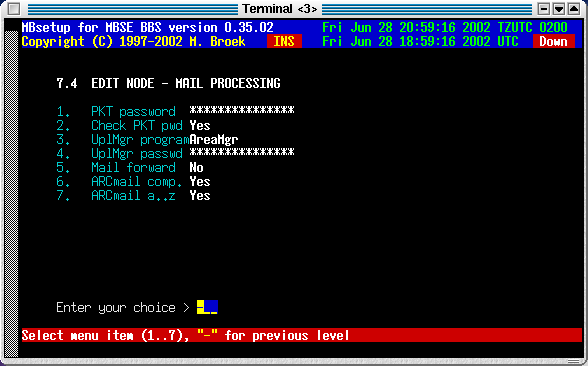
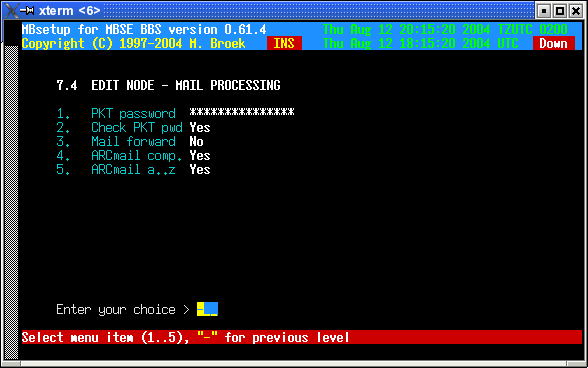
Updated documentation

diff --git a/html/setup/nodes.html b/html/setup/nodes.html
@@ -14,7 +14,7 @@
 </HEAD>
 <BODY>
 <BLOCKQUOTE>
-<div align=right><h5>Last update 08-Mar-2004</h5></div>
+<div align=right><h5>Last update 12-Aug-2004</h5></div>
 <div align=center><H1>MBSE BBS Setup - Fidonet nodes.</H1></div>
 <P>
 
@@ -147,13 +147,18 @@ Irex upto 2.29. Others may exist, even some older mbse versions.
 <H3>4. Edit node - mail processing</H3>
 <P>
 <p><table>
-<tr><th nowrap align=left valign=top>PKT password</th><td>The password to insert in .pkt files.
-<tr><th nowrap align=left valign=top>Check PKT pwd</th><td>Check password in received .pkt files. If not, errors or missing passwords are only logged.  If set, errors or missing password are refused and the .pkt files are renamed to .bad
-<tr><th nowrap align=left valign=top>UplMgr program</th><td>The name of the Areamgr program of this node.  This could be AreaFix, AreaMgr etc.
-<tr><th nowrap align=left valign=top>UplMgr passwd</th><td>The password for the Areamgr of this node.
-<tr><th nowrap align=left valign=top>Mail forward</th><td>Not in use yet.
-<tr><th nowrap align=left valign=top>ARCmail comp.</th><td>Use ARCmail 0.60 file naming convention for out of zone mail.
-<tr><th nowrap align=left valign=top>ARCmail a..z</th><td>Allow a..z last character for ARCmail filenames.
+<tr><th nowrap align=left valign=top>PKT password</th><td>The password to insert
+in .pkt files.</td></tr>
+<tr><th nowrap align=left valign=top>Check PKT pwd</th><td>Check password in
+received .pkt files. If not, errors or missing passwords are only logged.  If
+set, errors or missing password are refused and the .pkt files are renamed to
+.bad</td></tr>
+<tr><th nowrap align=left valign=top>Mail forward</th><td>Not in use
+yet.</td></tr>
+<tr><th nowrap align=left valign=top>ARCmail comp.</th><td>Use ARCmail 0.60 file
+naming convention for out of zone mail.</td></tr>
+<tr><th nowrap align=left valign=top>ARCmail a..z</th><td>Allow a..z last
+character for ARCmail filenames.</td></tr>
 </table>
 <P>
 <IMG SRC="../images/nodes4.png" alt='Nodes mail setup'>
@@ -173,14 +178,6 @@ carefull not to allow a node to connect areas from networks he has no aka in.
 <p><table>
 <tr><th nowrap align=left valign=top>Files password</th><td>The password for
 .tic files.</td></tr>
-<tr><th nowrap align=left valign=top>Mgr password</th><td>The password for the
-Areamgr and Filemgr.</td></tr>
-<tr><th nowrap align=left valign=top>UplMgr program</th><td>The name of the
-Filemgr progrom of this node. This could be FileMgr, Allfix, Raid etc.</td></tr>
-<tr><th nowrap align=left valign=top>UplMgr passwd</th><td>The password of the
-Filemgr if this node.</td></tr>
-<tr><th nowrap align=left valign=top>UplMgr Add +</th><td>Add a "+" in the
-command to connect areas.</td></tr>
 <tr><th nowrap align=left valign=top>Incl. message</th><td>Send a netmail
 message for each file to send.</td></tr>
 <tr><th nowrap align=left valign=top>Send TIC file</th><td>Send .tic file to
@@ -365,7 +362,31 @@ is set for each node.
 <IMG SRC="../images/nodes9.png" alt='Nodes security setup'>
 <P>
 
-<H3>10. Statistics</H3>
+<H3>10. Area and File managers</H3>
+<P>
+This screen sets names and passwords of the uplink managers, also our own
+password is set here.
+<p><table>
+<tr><th nowrap align=left valign=top>Uplink AreaMgr program</th><td>The name of the
+Areamgr program of this node.  This could be AreaFix, AreaMgr etc.</td></tr>
+<tr><th nowrap align=left valign=top>Uplink AreaMgr passowrd</th><td>The password for the
+Areamgr of this node.</td></tr>
+<tr><th nowrap align=left valign=top>Uplink AreaMgr is BBBS</th><td>If the uplink uses BBBS software set this
+to Yes.</td></tr>
+<tr><th nowrap align=left valign=top>Uplink FilMgr program</th><td>The name of the
+Filemgr progrom of this node. This could be FileMgr, Allfix, Raid etc.</td></tr>
+<tr><th nowrap align=left valign=top>Uplink FileMgr password</th><td>The password of the
+Filemgr if this node.</td></tr>
+<tr><th nowrap align=left valign=top>Uplink FileMgr is BBBS</th><td>If the plink
+uses BBBS set this to Yes.</td></tr>
+<tr><th nowrap align=left valign=top>Our Area/Filemgr passwd</th><td>Our own
+Area/Filemgr password for this node to send to our node.</td></tr>
+</table>
+<P>
+<IMG SRC="../images/nodes10.png" alt="Nodes managers setup">
+<P>
+
+<H3>11. Statistics</H3>
 <P>
 In this statistics screen you can see the mail and files flow with this
 node. Values are stored for the current week, the previous week, the
@@ -373,7 +394,7 @@ current month and previous month and the overall total since you defined
 this node. There are actual 12 months of statistics stored in the nodes
 record, only 2 are visible.
 <P>
-<IMG SRC="../images/nodes10.png" alt='Nodes statistics'>
+<IMG SRC="../images/nodes11.png" alt='Nodes statistics'>
 <P>
 
 <A HREF="./"><IMG SRC="../images/larrow.png" ALT="Back" Border="0">Back to index</A>&nbsp;

diff --git a/mbsetup/m_node.c b/mbsetup/m_node.c
@@ -405,6 +405,7 @@ void E_UplMgr(void)
     mvprintw(10, 6, "4.   Uplink FileMgr program");
     mvprintw(11, 6, "5.   Uplink FileMgr password");
     mvprintw(12, 6, "6.   Uplink FileMgr is BBBS");
+    mvprintw(13, 6, "7.   Our Area/Filemgr passwd");
 
     for (;;) {
 	set_color(WHITE, BLACK);
@@ -414,8 +415,9 @@ void E_UplMgr(void)
         show_str( 10,35, 8, nodes.UplFmgrPgm);
 	show_str( 11,35,15, (char *)"***************");
 	show_bool(12,35,    nodes.UplFmgrBbbs);
+	show_str( 13,35,15, (char *)"***************");
 
-	switch(select_menu(6)) {
+	switch(select_menu(7)) {
 	    case 0: return;
 	    case 1: E_STR(  7,35, 8, nodes.UplAmgrPgm,   "Name of the uplink ^areamanager program^")
 	    case 2: E_STR(  8,35,15, nodes.UplAmgrPass,  "Uplink ^areamanager password^ for this node")
@@ -423,6 +425,7 @@ void E_UplMgr(void)
             case 4: E_STR( 10,35,8,  nodes.UplFmgrPgm,   "Name of the uplink ^filemanager^ program")
 	    case 5: E_STR( 11,35,15, nodes.UplFmgrPass,  "Uplink ^filemanager password^ for this node")
 	    case 6: E_BOOL(12,35,    nodes.UplFmgrBbbs,  "Uplink ^filemanager^ is ^BBBS^ software")
+	    case 7: E_STR( 13,35,15, nodes.Apasswd,      "The area and filemanager ^password^ for this node")
 	}
     }
 }
@@ -471,35 +474,32 @@ void E_Files(void)
     mvprintw( 5, 6, "7.6  EDIT NODE - FILES PROCESSING");
     set_color(CYAN, BLACK);
     mvprintw( 7, 6, "1.   Files password");
-    mvprintw( 8, 6, "2.   Mgr password");
-    mvprintw( 9, 6, "3.   Incl. message");
-    mvprintw(10, 6, "4.   Send TIC file");
-    mvprintw(11, 6, "5.   Advanced TIC");
-    mvprintw(12, 6, "6.   Advanced SB");
-    mvprintw(13, 6, "7.   To line in TIC");
-    mvprintw(14, 6, "8.   File forward");
+    mvprintw( 8, 6, "2.   Incl. message");
+    mvprintw( 9, 6, "3.   Send TIC file");
+    mvprintw(10, 6, "4.   Advanced TIC");
+    mvprintw(11, 6, "5.   Advanced SB");
+    mvprintw(12, 6, "6.   To line in TIC");
+    mvprintw(13, 6, "7.   File forward");
 
     for (;;) {
 	set_color(WHITE, BLACK);
 	show_str(  7,26,15, (char *)"***************");
-	show_str(  8,26,15, (char *)"***************");
-	show_bool( 9,26,    nodes.Message);
-	show_bool(10,26,    nodes.Tic);
-	show_bool(11,26,    nodes.AdvTic);
-	show_bool(12,26,    nodes.TIC_AdvSB);
-	show_bool(13,26,    nodes.TIC_To);
-	show_bool(14,26,    nodes.FileFwd);
+	show_bool( 8,26,    nodes.Message);
+	show_bool( 9,26,    nodes.Tic);
+	show_bool(10,26,    nodes.AdvTic);
+	show_bool(11,26,    nodes.TIC_AdvSB);
+	show_bool(12,26,    nodes.TIC_To);
+	show_bool(13,26,    nodes.FileFwd);
 
-	switch(select_menu(8)) {
+	switch(select_menu(7)) {
 	    case 0: return;
 	    case 1: E_STR(  7,26,15,nodes.Fpasswd,    "The ^TIC^ files ^password^ for this node")
-	    case 2: E_STR(  8,26,15,nodes.Apasswd,    "The filemanager ^password^ for this node")
-	    case 3: E_BOOL( 9,26,   nodes.Message,    "Send ^messages^ with files send to this node")
-	    case 4: E_BOOL(10,26,   nodes.Tic,        "Send ^TIC^ files to this node")
-	    case 5: E_BOOL(11,26,   nodes.AdvTic,     "Send ^advanced^ TIC files to this node")
-	    case 6: E_BOOL(12,26,   nodes.TIC_AdvSB,  "Send ^advanced Seen-By^ lines in ticfiles to this node")
-	    case 7: E_BOOL(13,26,   nodes.TIC_To,     "Send ^To^ line in ticfiles to this node")
-	    case 8: E_BOOL(14,26,   nodes.FileFwd,    "^Forward TIC^ files for this node")
+	    case 2: E_BOOL( 8,26,   nodes.Message,    "Send ^messages^ with files send to this node")
+	    case 3: E_BOOL( 9,26,   nodes.Tic,        "Send ^TIC^ files to this node")
+	    case 4: E_BOOL(10,26,   nodes.AdvTic,     "Send ^advanced^ TIC files to this node")
+	    case 5: E_BOOL(11,26,   nodes.TIC_AdvSB,  "Send ^advanced Seen-By^ lines in ticfiles to this node")
+	    case 6: E_BOOL(12,26,   nodes.TIC_To,     "Send ^To^ line in ticfiles to this node")
+	    case 7: E_BOOL(13,26,   nodes.FileFwd,    "^Forward TIC^ files for this node")
 	}
     }
 }
@@ -1106,7 +1106,7 @@ int EditNodeRec(int Area)
 	mvprintw(13, 6, "7.   Files groups");
 	mvprintw(14, 6, "8.   Directory session");
 	mvprintw(15, 6, "9.   Security flags");
-	mvprintw(16, 6, "10.  Uplink managers");
+	mvprintw(16, 6, "10.  Area/File managers");
 	mvprintw(17, 6, "11.  Statistics");
 
 	switch(select_menu(11)) {
